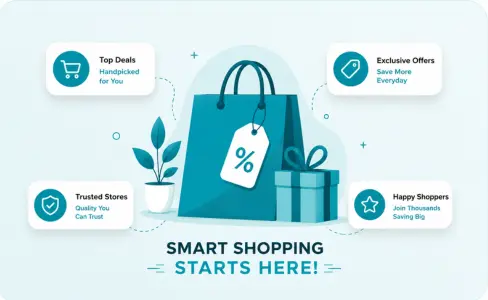
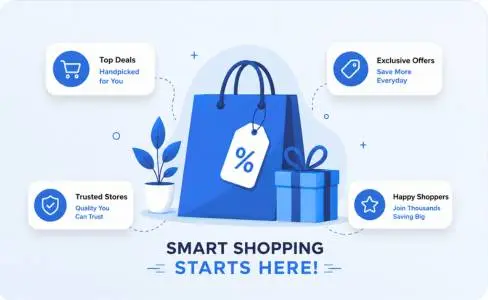
Update Footer, replace all-stores hero image, add check-1 image

diff --git a/components/Footer.tsx b/components/Footer.tsx
@@ -75,7 +75,7 @@ export const Footer = () => {
   return (
     <footer className="w-full">
       {/* Layer 1: Newsletter Banner Strip */}
-      <div className="bg-brand-primary py-8 md:py-12">
+      {/* <div className="bg-brand-primary py-8 md:py-12">
         <div className="container mx-auto px-4 md:px-6">
           <div className="flex flex-col lg:flex-row items-center justify-between gap-8">
             <div className="flex items-center gap-6">
@@ -111,7 +111,7 @@ export const Footer = () => {
             </div>
           </div>
         </div>
-      </div>
+      </div> */}
 
       {/* Layer 2: Main Footer Body */}
       <div className="bg-[#051a33] pt-20 pb-16">